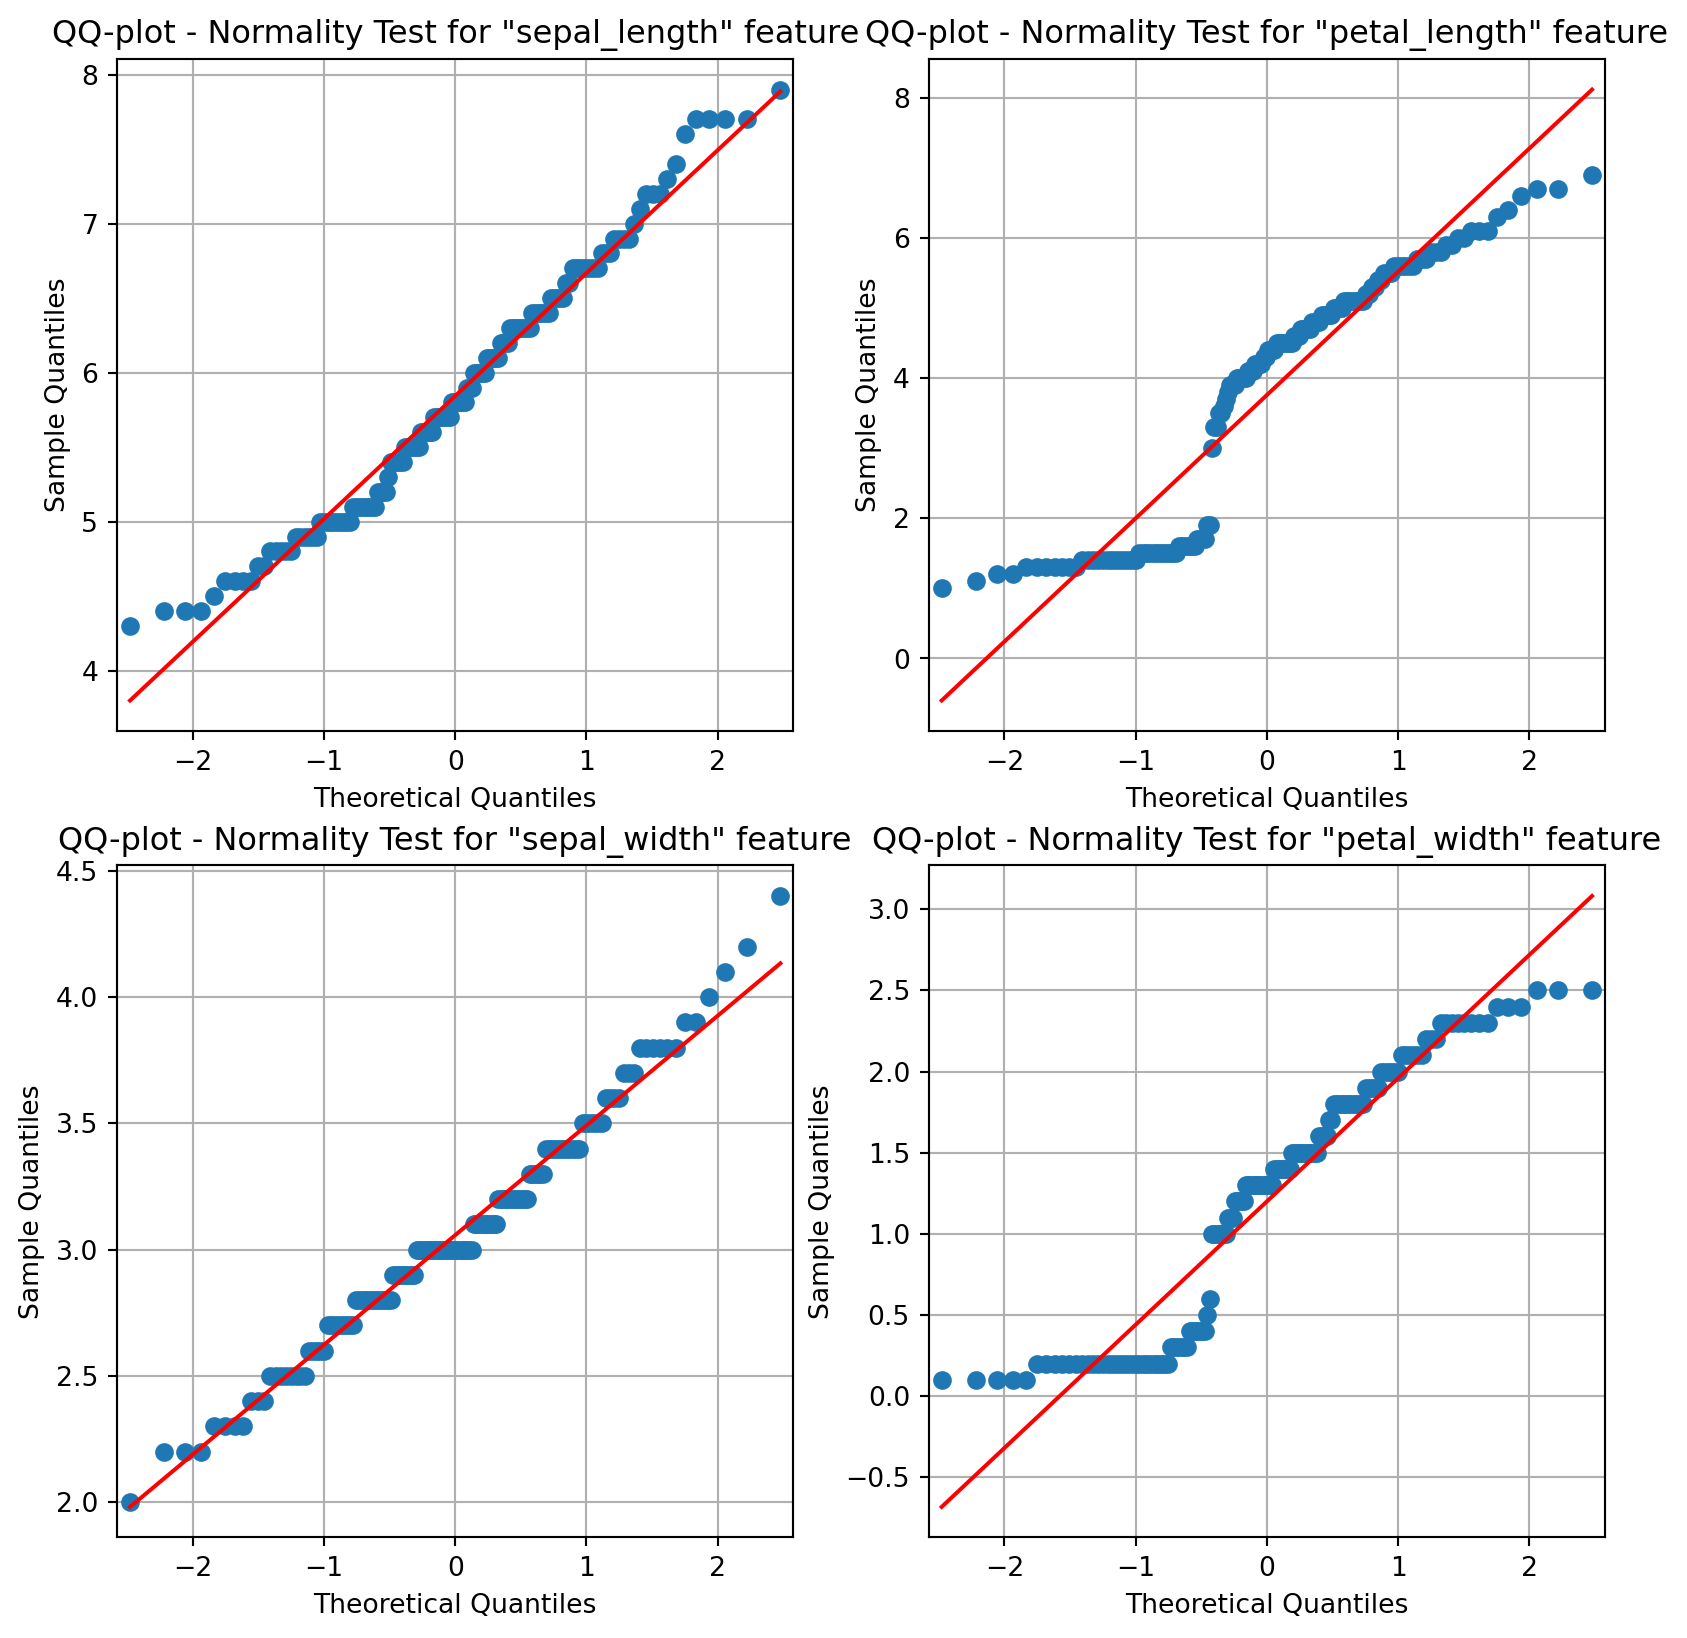
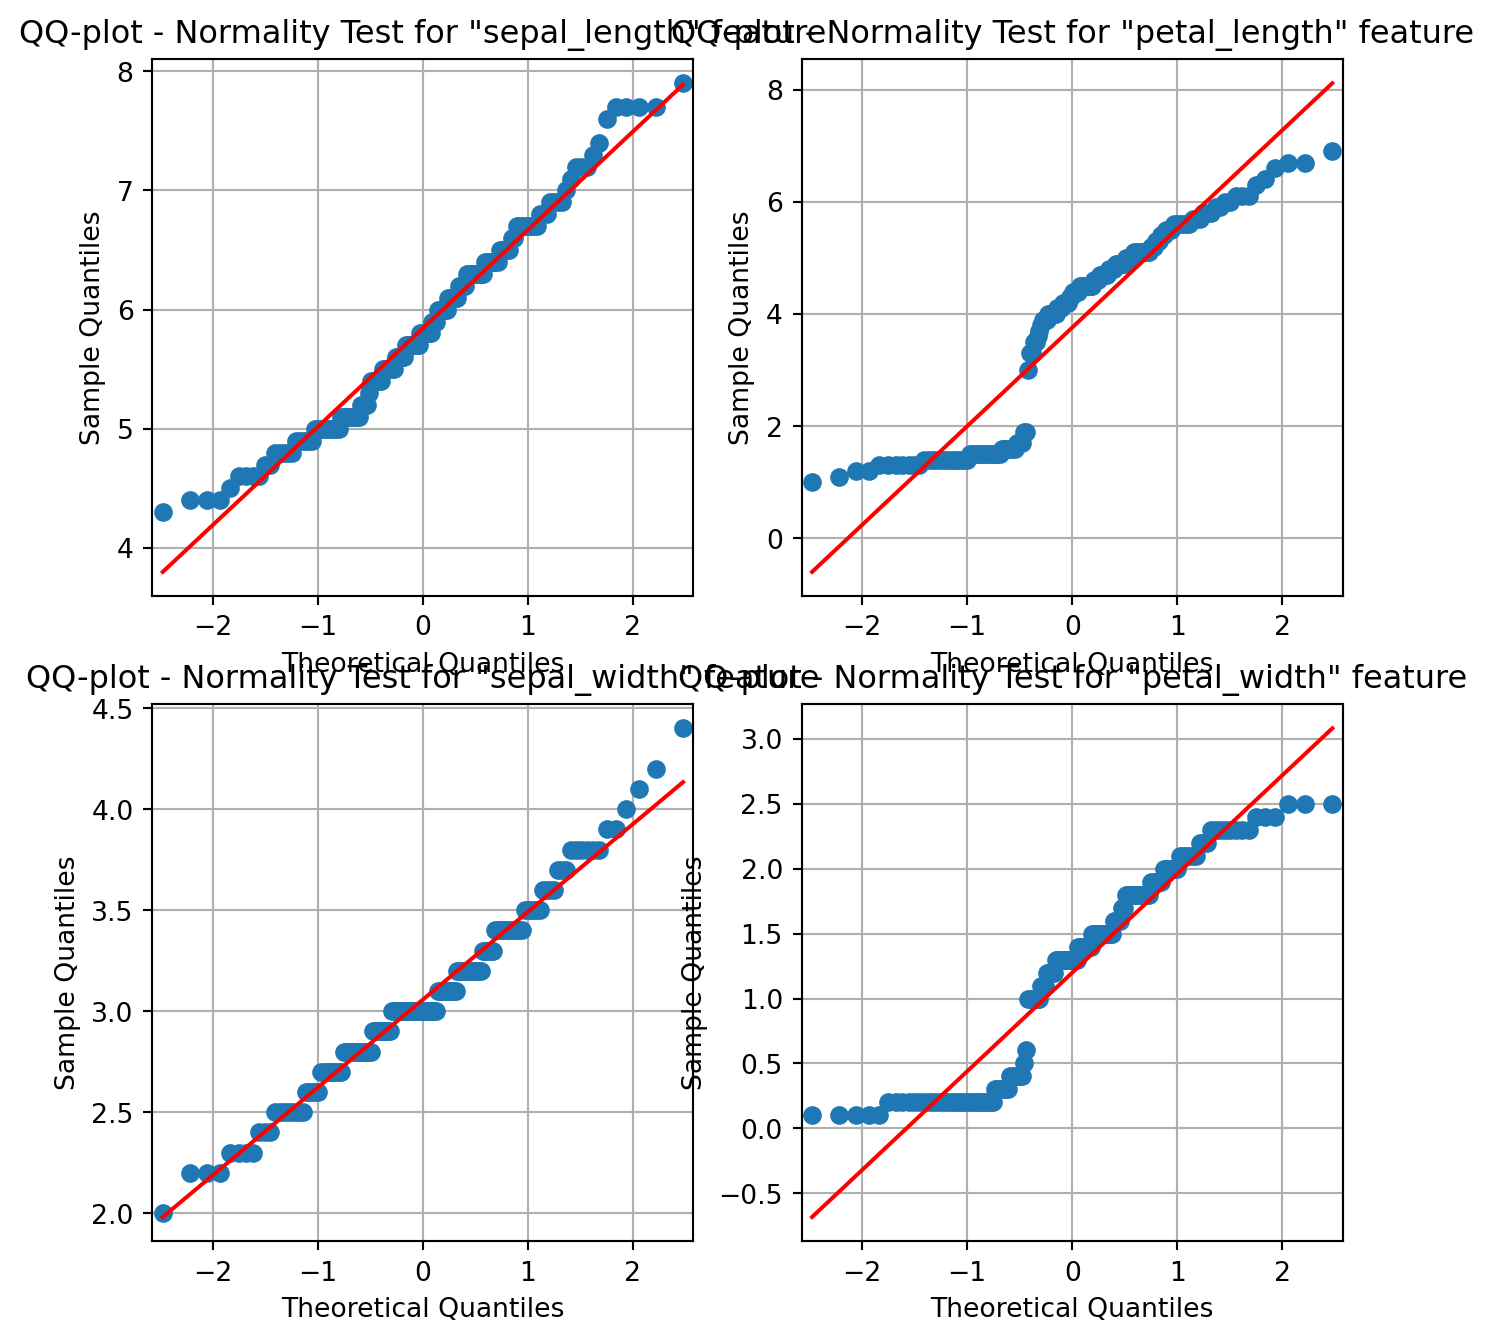
Built site for gh-pages

diff --git a/posts/Probability Theory and Random Variables/index.html b/posts/Probability Theory and Random Variables/index.html
@@ -358,17 +358,18 @@ pre > code.sourceCode > span > a:first-child::before { text-decoration: underlin
 <div class="sourceCode cell-code" id="cb3"><pre class="sourceCode python code-with-copy"><code class="sourceCode python"><span id="cb3-1"><a href="#cb3-1" aria-hidden="true" tabindex="-1"></a><span class="kw">def</span> iris_histogram_plotter(df):</span>
 <span id="cb3-2"><a href="#cb3-2" aria-hidden="true" tabindex="-1"></a>    features_list <span class="op">=</span> [<span class="st">'sepal_length'</span>, <span class="st">'sepal_width'</span>, <span class="st">'petal_length'</span>, <span class="st">'petal_width'</span>]</span>
 <span id="cb3-3"><a href="#cb3-3" aria-hidden="true" tabindex="-1"></a>    counter <span class="op">=</span> <span class="dv">0</span></span>
-<span id="cb3-4"><a href="#cb3-4" aria-hidden="true" tabindex="-1"></a>    fig, axs <span class="op">=</span> plt.subplots(nrows<span class="op">=</span><span class="dv">2</span>, ncols<span class="op">=</span><span class="dv">2</span>, figsize<span class="op">=</span>(<span class="dv">16</span>, <span class="dv">15</span>))</span>
+<span id="cb3-4"><a href="#cb3-4" aria-hidden="true" tabindex="-1"></a>    fig, axs <span class="op">=</span> plt.subplots(nrows<span class="op">=</span><span class="dv">2</span>, ncols<span class="op">=</span><span class="dv">2</span>, figsize<span class="op">=</span>(<span class="dv">8</span>, <span class="dv">8</span>))</span>
 <span id="cb3-5"><a href="#cb3-5" aria-hidden="true" tabindex="-1"></a>    <span class="cf">for</span> i <span class="kw">in</span> <span class="bu">range</span>(<span class="dv">2</span>):</span>
 <span id="cb3-6"><a href="#cb3-6" aria-hidden="true" tabindex="-1"></a>        <span class="cf">for</span> j <span class="kw">in</span> <span class="bu">range</span>(<span class="dv">2</span>):</span>
 <span id="cb3-7"><a href="#cb3-7" aria-hidden="true" tabindex="-1"></a>            sns.histplot(df, x<span class="op">=</span>features_list[counter], kde<span class="op">=</span><span class="va">True</span>, ax<span class="op">=</span>axs[i][j])</span>
 <span id="cb3-8"><a href="#cb3-8" aria-hidden="true" tabindex="-1"></a>            axs[i][j].set_title(<span class="ss">f"Distribution of </span><span class="ch">\"</span><span class="sc">{</span>features_list[counter]<span class="sc">}</span><span class="ch">\"</span><span class="ss"> Feature"</span>)</span>
 <span id="cb3-9"><a href="#cb3-9" aria-hidden="true" tabindex="-1"></a>            counter <span class="op">+=</span> <span class="dv">1</span></span>
-<span id="cb3-10"><a href="#cb3-10" aria-hidden="true" tabindex="-1"></a>    plt.show()</span>
-<span id="cb3-11"><a href="#cb3-11" aria-hidden="true" tabindex="-1"></a></span>
-<span id="cb3-12"><a href="#cb3-12" aria-hidden="true" tabindex="-1"></a>iris_histogram_plotter(df<span class="op">=</span>iris)</span></code><button title="Copy to Clipboard" class="code-copy-button"><i class="bi"></i></button></pre></div>
+<span id="cb3-10"><a href="#cb3-10" aria-hidden="true" tabindex="-1"></a>    plt.tight_layout()</span>
+<span id="cb3-11"><a href="#cb3-11" aria-hidden="true" tabindex="-1"></a>    plt.show()</span>
+<span id="cb3-12"><a href="#cb3-12" aria-hidden="true" tabindex="-1"></a></span>
+<span id="cb3-13"><a href="#cb3-13" aria-hidden="true" tabindex="-1"></a>iris_histogram_plotter(df<span class="op">=</span>iris)</span></code><button title="Copy to Clipboard" class="code-copy-button"><i class="bi"></i></button></pre></div>
 <div class="cell-output cell-output-display">
-<p><img src="index_files/figure-html/cell-4-output-1.png" width="1261" height="1189"></p>
+<p><img src="index_files/figure-html/cell-4-output-1.png" width="758" height="758"></p>
 </div>
 </div>
 <p>We can see that amongst the four sepal_length and sepal_width features seem normally distributed. However, we will need to use more rigid tests to assess the normality of these features.</p>
@@ -383,7 +384,7 @@ pre > code.sourceCode > span > a:first-child::before { text-decoration: underlin
 <div class="sourceCode cell-code" id="cb4"><pre class="sourceCode python code-with-copy"><code class="sourceCode python"><span id="cb4-1"><a href="#cb4-1" aria-hidden="true" tabindex="-1"></a><span class="im">from</span> statsmodels.graphics.gofplots <span class="im">import</span> qqplot</span>
 <span id="cb4-2"><a href="#cb4-2" aria-hidden="true" tabindex="-1"></a></span>
 <span id="cb4-3"><a href="#cb4-3" aria-hidden="true" tabindex="-1"></a>features_list <span class="op">=</span> [<span class="st">'sepal_length'</span>, <span class="st">'sepal_width'</span>, <span class="st">'petal_length'</span>, <span class="st">'petal_width'</span>]</span>
-<span id="cb4-4"><a href="#cb4-4" aria-hidden="true" tabindex="-1"></a>fig <span class="op">=</span> plt.figure(figsize<span class="op">=</span>(<span class="dv">10</span>, <span class="dv">10</span>))</span>
+<span id="cb4-4"><a href="#cb4-4" aria-hidden="true" tabindex="-1"></a>fig <span class="op">=</span> plt.figure(figsize<span class="op">=</span>(<span class="dv">8</span>, <span class="dv">8</span>))</span>
 <span id="cb4-5"><a href="#cb4-5" aria-hidden="true" tabindex="-1"></a>ax1 <span class="op">=</span> fig.add_subplot(<span class="dv">221</span>)</span>
 <span id="cb4-6"><a href="#cb4-6" aria-hidden="true" tabindex="-1"></a>qqplot(iris[<span class="st">'sepal_length'</span>], line<span class="op">=</span><span class="st">'s'</span>, ax<span class="op">=</span>ax1)</span>
 <span id="cb4-7"><a href="#cb4-7" aria-hidden="true" tabindex="-1"></a>ax1.set_title(<span class="st">"QQ-plot - Normality Test for </span><span class="ch">\"</span><span class="st">sepal_length</span><span class="ch">\"</span><span class="st"> feature"</span>)</span>
@@ -406,7 +407,7 @@ pre > code.sourceCode > span > a:first-child::before { text-decoration: underlin
 <span id="cb4-24"><a href="#cb4-24" aria-hidden="true" tabindex="-1"></a></span>
 <span id="cb4-25"><a href="#cb4-25" aria-hidden="true" tabindex="-1"></a>plt.show()</span></code><button title="Copy to Clipboard" class="code-copy-button"><i class="bi"></i></button></pre></div>
 <div class="cell-output cell-output-display">
-<p><img src="index_files/figure-html/cell-5-output-1.png" width="844" height="819"></p>
+<p><img src="index_files/figure-html/cell-5-output-1.png" width="746" height="671"></p>
 </div>
 </div>
 <p>Once again, we can see sepal length and width closely follow the standardized line while the petal length and petal width do not fit properly against the reference normal distribution.</p>
@@ -559,7 +560,7 @@ According to D’Agostino-Pearson test the feature petal_width is NOT NORMALLY D
 <span id="cb7-9"><a href="#cb7-9" aria-hidden="true" tabindex="-1"></a>iris_scaled_df <span class="op">=</span> transform_iris_normal()</span>
 <span id="cb7-10"><a href="#cb7-10" aria-hidden="true" tabindex="-1"></a>iris_histogram_plotter(df<span class="op">=</span>iris_scaled_df)</span></code><button title="Copy to Clipboard" class="code-copy-button"><i class="bi"></i></button></pre></div>
 <div class="cell-output cell-output-display">
-<p><img src="index_files/figure-html/cell-7-output-1.png" width="1254" height="1189"></p>
+<p><img src="index_files/figure-html/cell-7-output-1.png" width="758" height="758"></p>
 </div>
 </div>
 <p>The features are now transformed and each value indicate the number of standard deviations that a given observation is above or below the mean.</p>
